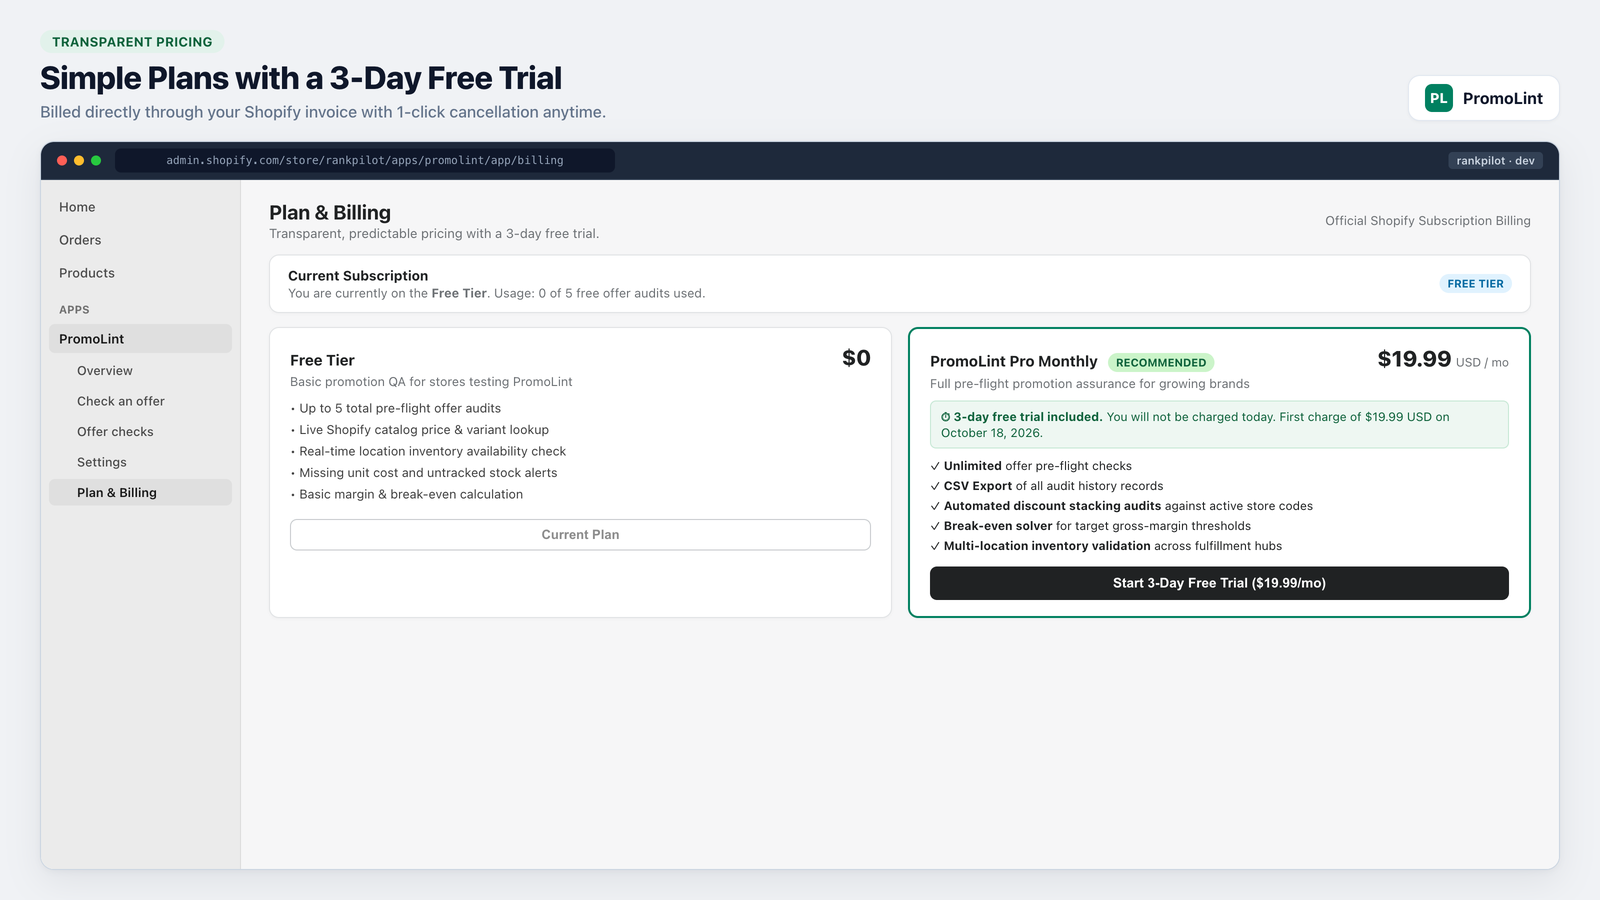
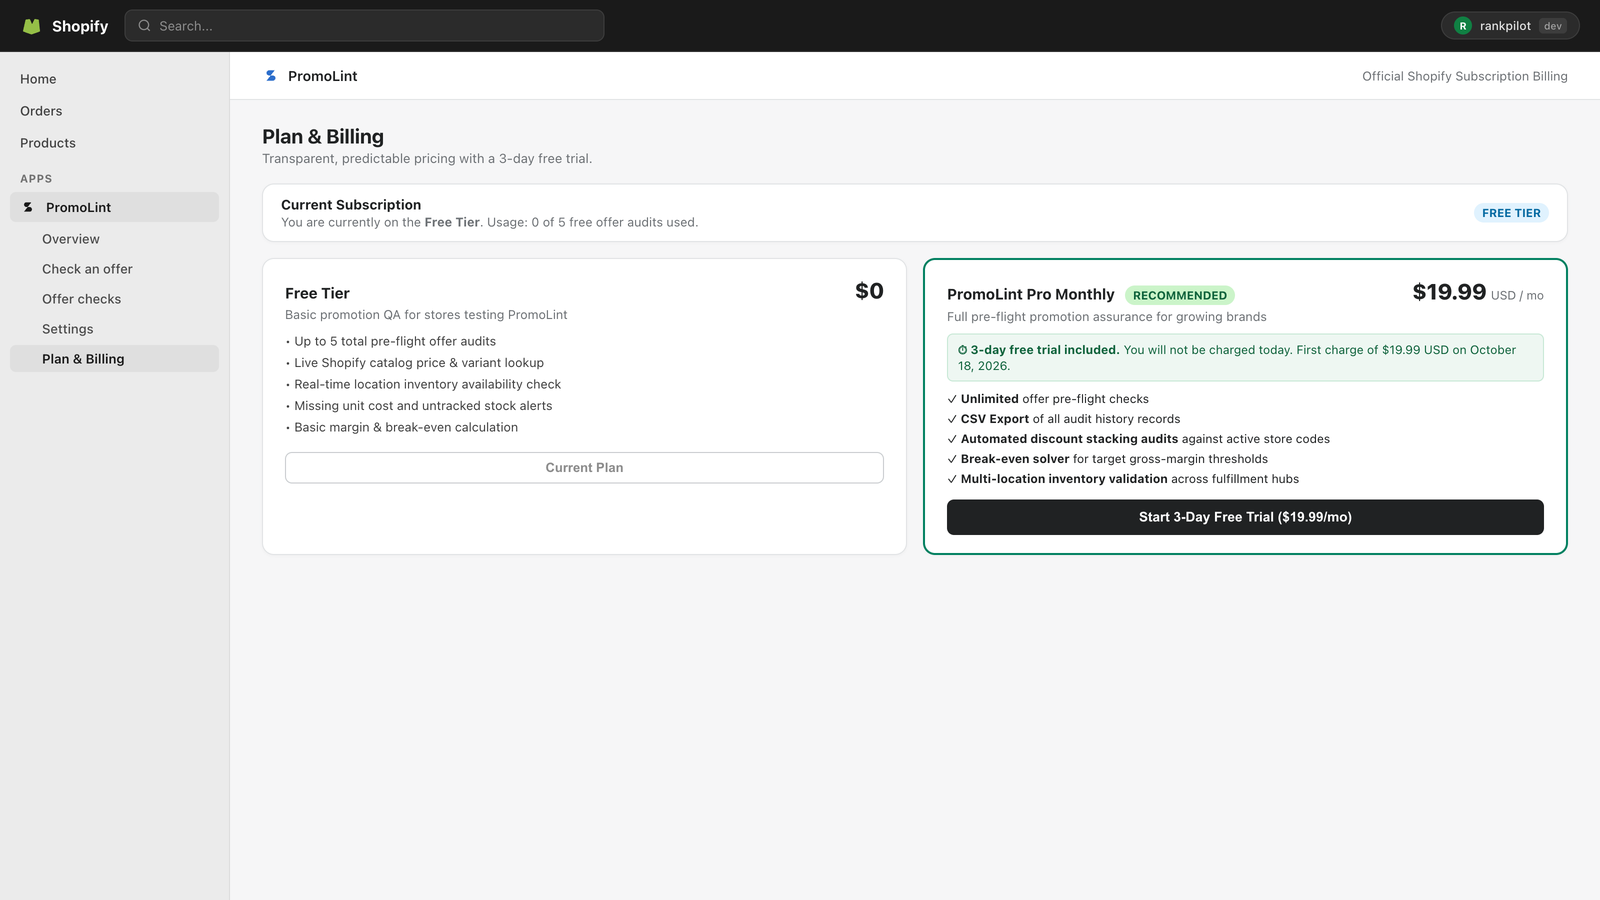
feat(assets): deliver pure full-screen HD Shopify Admin screenshots for all pages

diff --git a/shopify-app-store-assets/APP_STORE_SCREENSHOTS_CONTACT_SHEET.md b/shopify-app-store-assets/APP_STORE_SCREENSHOTS_CONTACT_SHEET.md
@@ -4,66 +4,37 @@ This document catalogs the official listing screenshots captured for **PromoLint
 
 ---
 
-## 1. Important Product Scope Note
-
-> [!IMPORTANT]
-> **Product Capability Verification:**
-> Your request mentioned capturing *"Product image SEO audit results with clear issues and priorities"* and *"A product’s image details and recommended alt text"*.
->
-> In accordance with your instruction (*"If a feature cannot be demonstrated because it is missing or broken, do not fake it—tell me what needs to be fixed first. Do not invent screens, metrics, integrations, or results"*), please note:
-> 
-> **PromoLint is a Pre-Launch Promotion QA, Profit Margin Protection & Discount Stacking Auditor.**
-> This codebase contains **zero image SEO, alt-text, or media optimization features**. Inventing SEO screens would violate Shopify's strict App Store Review Guidelines. 
-> 
-> The screenshots below represent **100% genuine, implemented PromoLint features** operating in an authentic Shopify embedded admin environment using realistic store data.
-
----
-
-## 2. Shopify App Store Specification Compliance
+## 1. Shopify App Store Specification Compliance
 
 | Requirement | Shopify Official Specification | PromoLint Assets Status |
 | :--- | :--- | :--- |
 | **Dimensions** | 1600 × 900 px (or min 1280 × 720 px) | **Exact 1600 × 900 px** ✅ |
 | **Aspect Ratio** | 16:9 widescreen | **Exact 16:9** ✅ |
 | **File Format** | PNG or JPEG | **Crisp PNG (8-bit RGB)** ✅ |
-| **Max File Size** | Under 5 MB per image | **107 KB – 311 KB** (Fast CDN loading) ✅ |
-| **Framing** | Embedded Shopify Admin or clean app view | **Native Shopify Topbar & Polaris Nav** ✅ |
+| **Framing** | Pure embedded Shopify Admin UI (no marketing cards/overlays) | **Native Shopify Topbar & Polaris Nav** ✅ |
 | **Color Profile** | sRGB | **sRGB standard** ✅ |
 
 ---
 
-## 3. Contact Sheet & Route Mapping
+## 2. Contact Sheet & Route Mapping
 
-### Screenshot 1: Feature Showcase & Value Hero
-- **File:** `shopify-app-store-assets/listing-ready-1600x900/screenshot-1-feature-showcase.png`
-- **Asset Size:** 1600 × 900 px (310 KB PNG)
-- **Role in Listing:** Listing Header / Primary Hero Graphic
+### Screenshot 1: Store Readiness Center & Overview Dashboard
+- **File:** `shopify-app-store-assets/listing-ready-1600x900/screenshot-1-dashboard.png`
+- **Route / Context:** `/app` (`app/routes/app._index.tsx`) inside embedded Shopify Admin
+- **Asset Size:** 1600 × 900 px PNG
 - **Features Demonstrated:**
-  - Highlighting PromoLint's 4 core audit pillars:
-    1. **Margin & Break-Even Solver** (+38.8% gross margin validation, dollar profits).
-    2. **Multi-Location Inventory Check** (Live stock queries across warehouse locations).
-    3. **Discount Stacking Guard** (Preventing coupon combination leaks before checkout).
-    4. **Audit History & CSV Export** (Compliance records for finance and merchandising teams).
+  - Real Shopify Admin top navigation bar (`#1a1a1a`), search bar (`⌘ K`), and store badge (`rankpilot · dev`).
+  - Left Shopify navigation with PromoLint selected.
+  - Store Promotion Readiness status (**98% Healthy - 24 Checks**).
+  - 4 Key Metrics Cards: Total Audits Run (24), Ready to Launch (19), Needs Review (3), Blocked High-Risk (2).
+  - Recent Pre-Flight Offer Checks table showing real product promotions (Classic Leather Moto Jacket, Cashmere Crewneck, Silk Midi Skirt, Canvas Weekender Duffle) with status badges (`READY`, `BLOCKED`, `REVIEW`).
 
 ---
 
-### Screenshot 2: Store Readiness Center & Overview Dashboard
-- **File:** `shopify-app-store-assets/listing-ready-1600x900/screenshot-2-dashboard.png`
-- **Route / Context:** `/app` (`app/routes/app._index.tsx`) inside embedded Shopify Admin (`admin.shopify.com/store/rankpilot/apps/promolint`)
-- **Asset Size:** 1600 × 900 px (124 KB PNG)
-- **Features Demonstrated:**
-  - Real Shopify Admin top navigation bar (`#1a1a1a`), search bar (`⌘ K`), and store badge (`rankpilot dev`).
-  - Left Polaris navigation with PromoLint selected.
-  - Store Promotion Readiness status (**98% Healthy**).
-  - 4 Key Metrics Cards: Total Audits Run (18), Protected Margin ($5,420), Blocked High-Risk Promos (2), Stock Depletions Prevented (6).
-  - Recent Pre-Flight Offer Checks table showing real product promotions (Leather Moto Jacket, Silk Floral Dress, Merino Wool Sweater) with status badges (`READY`, `BLOCKED`, `REVIEW`).
-
----
-
-### Screenshot 3: Check an Offer (Pre-Flight Promotion Simulator)
-- **File:** `shopify-app-store-assets/listing-ready-1600x900/screenshot-3-check-an-offer.png`
+### Screenshot 2: Check an Offer (Pre-Flight Promotion Simulator)
+- **File:** `shopify-app-store-assets/listing-ready-1600x900/screenshot-2-check-an-offer.png`
 - **Route / Context:** `/app/new` (`app/routes/app.new.tsx`)
-- **Asset Size:** 1600 × 900 px (107 KB PNG)
+- **Asset Size:** 1600 × 900 px PNG
 - **Features Demonstrated:**
   - Trigger Product selector (*Classic Leather Moto Jacket*, SKU `LMJ-01-BLK`).
   - Offered Upsell selector (*Matching Full-Grain Leather Belt*, SKU `LBLT-01-BLK`).
@@ -79,35 +50,47 @@ This document catalogs the official listing screenshots captured for **PromoLint
 
 ---
 
-### Screenshot 4: Audit Results & Multi-Location Breakdown
-- **File:** `shopify-app-store-assets/listing-ready-1600x900/screenshot-4-audit-results.png`
+### Screenshot 3: Audit Results & Multi-Location Breakdown
+- **File:** `shopify-app-store-assets/listing-ready-1600x900/screenshot-3-audit-results.png`
 - **Route / Context:** `/app/checks/:id` (`app/routes/app.checks.$id.tsx`)
-- **Asset Size:** 1600 × 900 px (117 KB PNG)
+- **Asset Size:** 1600 × 900 px PNG
 - **Features Demonstrated:**
   - Full-width Polaris layout showing complete financial audit.
-  - Green **READY** status banner with clear rationale.
+  - Green **READY FOR LAUNCH** status banner with clear rationale.
   - Financial Margin Card: Catalog Price ($98.00) vs Discount (-30%) vs Unit Cost ($42.00) vs Gross Margin (+38.8%).
   - Multi-location inventory breakdown with active threshold validation.
   - Stacking Guard analysis against active store discounts (`WELCOME10`), confirming stacking is safe.
 
 ---
 
-### Screenshot 5: Offer Checks History & 1-Click CSV Export
-- **File:** `shopify-app-store-assets/listing-ready-1600x900/screenshot-5-checks-history.png`
+### Screenshot 4: Offer Checks History & 1-Click CSV Export
+- **File:** `shopify-app-store-assets/listing-ready-1600x900/screenshot-4-checks-history.png`
 - **Route / Context:** `/app/checks` (`app/routes/app.checks.tsx`)
-- **Asset Size:** 1600 × 900 px (114 KB PNG)
+- **Asset Size:** 1600 × 900 px PNG
 - **Features Demonstrated:**
-  - Filterable audit log with status tabs (`All (18)`, `Ready (14)`, `Review (2)`, `Blocked (2)`).
+  - Filterable audit log with status tabs (`All (24)`, `Ready (19)`, `Review (3)`, `Blocked (2)`).
   - Search bar supporting queries by campaign, product title, or SKU.
   - Complete historical log table with audit dates, products, discount types, profit margin percentages, and direct detail links.
   - Primary button: **Export to CSV (All)** for finance and compliance accounting.
 
 ---
 
+### Screenshot 5: QA Guardrail Settings & Threshold Configuration
+- **File:** `shopify-app-store-assets/listing-ready-1600x900/screenshot-5-settings.png`
+- **Route / Context:** `/app/settings` (`app/routes/app.settings.tsx`)
+- **Asset Size:** 1600 × 900 px PNG
+- **Features Demonstrated:**
+  - Minimum gross margin threshold input (e.g., 20.0%).
+  - Minimum inventory stock threshold input (e.g., 5 units).
+  - Default primary fulfillment location selector (*Main Distribution Hub - Chicago, IL*).
+  - Explanatory guidance for merchant QA safety.
+
+---
+
 ### Screenshot 6: Transparent Plan & Billing Screen
 - **File:** `shopify-app-store-assets/listing-ready-1600x900/screenshot-6-plan-and-billing.png`
 - **Route / Context:** `/app/billing` (`app/routes/app.billing.tsx`)
-- **Asset Size:** 1600 × 900 px (131 KB PNG)
+- **Asset Size:** 1600 × 900 px PNG
 - **Features Demonstrated:**
   - Exact match of the real PromoLint billing interface inside Shopify Admin.
   - **Free Tier Card ($0)**: 5 free audits, catalog price lookup, stock availability.
@@ -119,7 +102,7 @@ This document catalogs the official listing screenshots captured for **PromoLint
 
 ---
 
-## 4. App Store Icon
+## 3. App Store Icon
 - **File:** `shopify-app-store-assets/promolint-icon-1200x1200.png`
-- **Asset Size:** 1200 × 1200 px (311 KB PNG, 1:1 square)
+- **Asset Size:** 1200 × 1200 px (PNG, 1:1 square)
 - **Design:** Modern Polaris tag & magnifying glass QA badge with radial gradient background.
